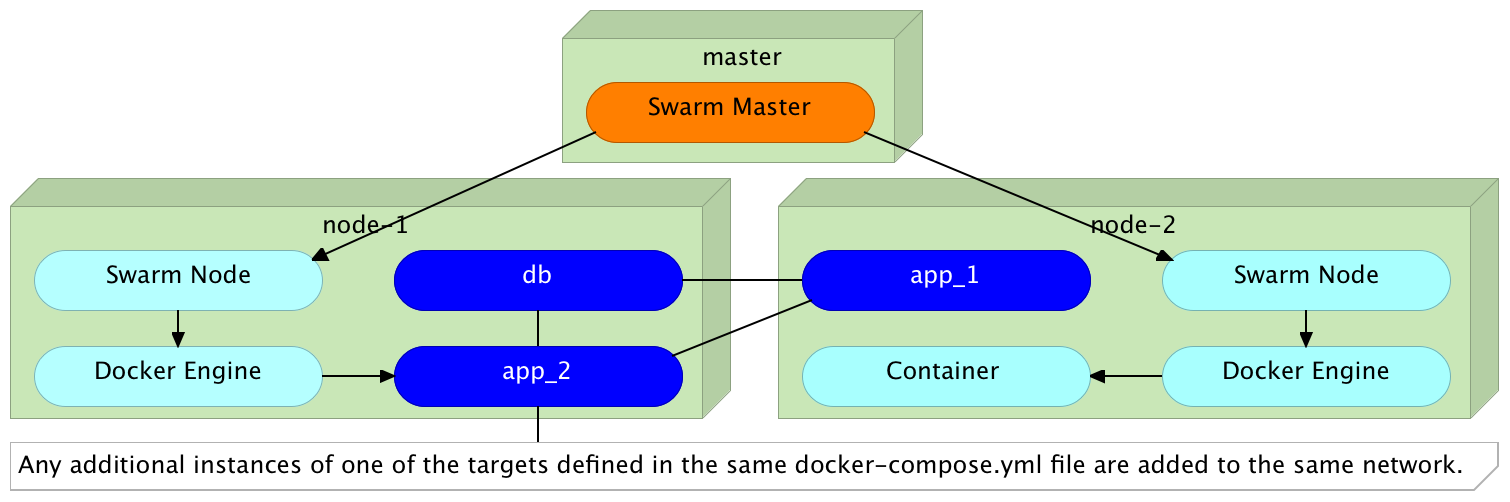
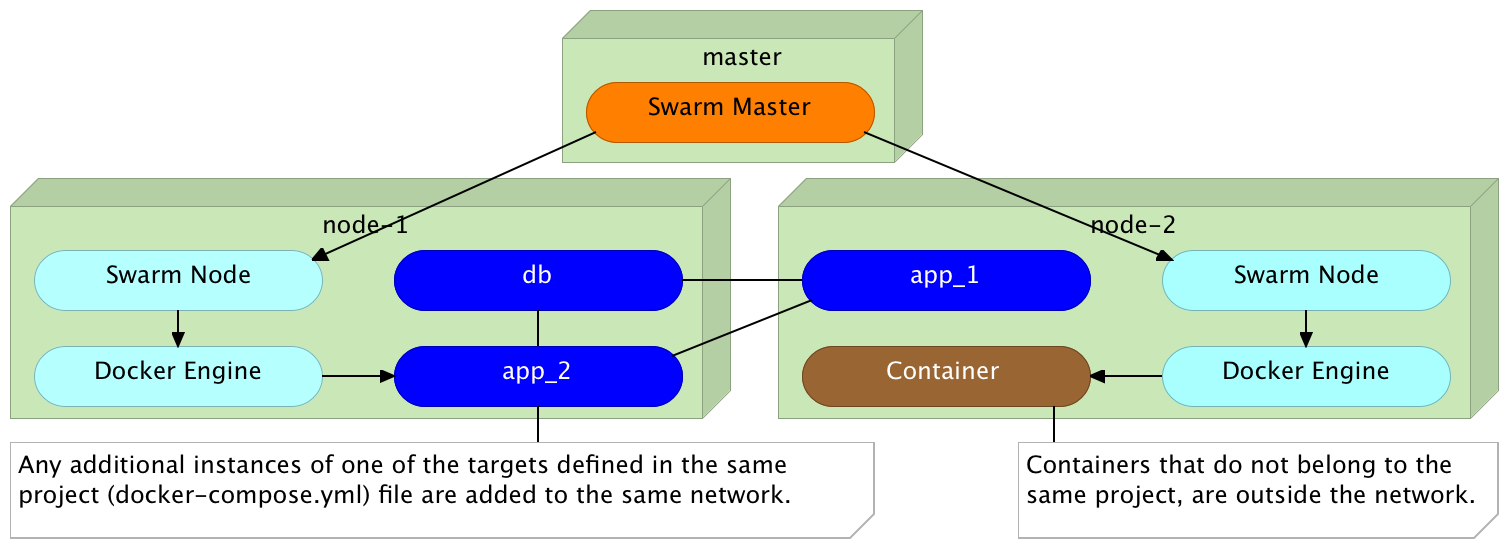
Wrote the Docker Networking and DNS article

diff --git a/articles/docker-dns.md b/articles/docker-dns.md
@@ -10,7 +10,9 @@ Let's start from the beginning. Since I don't know whether you're a Mac, Windows
 Setting Up The Cluster
 ----------------------
 
-TODO: Continue
+The only requirements for the examples that follow are [Vagrant](https://www.vagrantup.com/) and [Git](https://git-scm.com/). I choose Vagrant over [Docker Machine](https://www.docker.com/products/docker-machine) so that everyone can use the same commands no matter whether host OS is Linux, OS X, or Windows. The principles explained here are the same no matter whether your setup. Please make sure that both are installed on your machine. Everything else will be provisioned automatically.
+
+Let's get going. The commands that will create and provision the VMs are as follows.
 
 ```bash
 git clone https://github.com/vfarcic/docker-flow.git
@@ -22,81 +24,305 @@ vagrant plugin install vagrant-cachier
 vagrant up master node-1 node-2 proxy
 ```
 
+When the execution of the `vagrant up` command is finished, we'll have a commonly used Docker Swarm cluster configuration. The *proxy* node will host *Consul* that will serve as service registry. At the moment *proxy* service is missing (more on that later). The *master* server will host Swarm running in *master* mode. Finally, the two cluster nodes (*node-1* and *node-2*) will also be running Swarm but, this time, in *node* mode. The cluster node will also host *Registrator* that will make sure that all containers running in the cluster are registered in *Consul*. I won't go deeper into the explanation of the cluster setup but concentrate on Docker networking and DNS features.
+
 ![Swarm cluster setup through Vagrant](img/vagrant-sample.png)
+
+Let us enter the *proxy* VM and start exploring different networking options.
 
 ```bash
 vagrant ssh proxy
 
 cd /vagrant/articles/dns
+```
 
+The *dns* directory contains all the code we'll need throughout this article.
+
+Creating Docker Network Automatically
+-------------------------------------
+
+Let's see the networking in action. We'll run a simple service consisting of two containers. They are defined as targets `app` and `db` inside the [docker-compose-internal.yml](https://github.com/vfarcic/docker-flow/blob/master/articles/dns/docker-compose-internal.yml) file. Its content is as follows.
+
+```yml
+version: '2'
+
+services:
+  app:
+    image: vfarcic/books-ms
+    ports:
+      - 8080
+    environment:
+      - DB_HOST=books-ms-db
+    depends_on:
+      - db
+
+  db:
+    container_name: books-ms-db
+    image: mongo
+    environment:
+      - SERVICE_NAME=books-ms-db
+```
+
+This definition does not contain anything related to networking so we'll skip the explanation and run the containers.
+
+```bash
 export DOCKER_HOST=tcp://master:2375
 
-# Create network manually
+docker-compose -f docker-compose-internal.yml up -d app
+```
 
-docker network create backend
+We specified that the `DOCKER_HOST` variable should point to the Swarm master and run the Docker Compose target `app`. Since the definition of the `app` target states that it depends on `db`, the `books-ms-db` container was run as well.
 
-docker network ls
+The output of the `up` command is as follows.
 
-cat docker-compose.yml
+```
+Creating network "dns_default" with the default driver
+Creating books-ms-db
+Creating dns_app_1
+```
 
-docker-compose -f docker-compose.yml up -d db app
+Unless specified otherwise, Docker Compose always creates the default network for all containers belonging to a project. Unless specified with the `-p` argument, a project is equivalent to a directory Compose files reside (in this case *dns*). Therefore, as seen from the output, Docker Compose created a new network called `dns_default`.
 
-# Docker Compose created the network dns_default
+Let's confirm that the containers we just run are indeed inside the newly created network. We can, for example, try to ping the container *books-ms-db* from inside the container *dns_app_1*.
 
-docker exec -it dns_app_1 ping books-ms-db
+```bash
+docker exec -it dns_app_1 ping -c 1 books-ms-db
+```
 
-docker exec -it books-ms-db ping dns_app_1
+The output of the `exec` command is as follows.
+
+```
+PING books-ms-db (10.0.0.2): 56 data bytes
+64 bytes from 10.0.0.2: icmp_seq=0 ttl=64 time=0.055 ms
+--- books-ms-db ping statistics ---
+1 packets transmitted, 1 packets received, 0% packet loss
+round-trip min/avg/max/stddev = 0.055/0.055/0.055/0.000 ms
+```
+
+From it, we can see that both containrs are inside the same network and that the IP `10.0.0.2` was assigned to *books-ms-db*. Since those two containers were deployed with Swarm, they are running inside different servers. We don't even know (without listing processes or querying Consul) where is each of those containers running. The point is that, in thise case, we do not need to know the IP of the server where the container is running. As long as it belongs to the same network, it is accessible by its name.
+
+We can invert the situation and ping the container `dns_app_1` from inside the container `books-ms-db`.
+
+```bash
+docker exec -it books-ms-db ping -c 1 dns_app_1
 ```
 
 ![All containers that form the same service (defined in the same docker-compose.yml file) are inside the same network](img/network-service-1.png)
 
+Let's see what would happen if we instruct Swarm to deploy an additional instance of the *app* target.
+
 ```bash
-docker-compose -f docker-compose.yml scale app=2
+docker-compose -f docker-compose-internal.yml scale app=2
+```
 
-docker exec -it dns_app_1 ping dns_app_2
+This time we have the *app* target scaled to two instances and we repeat the ping process among all containers.
 
-docker exec -it dns_app_2 ping dns_app_1
+```bash
+docker exec -it dns_app_1 ping -c 1 dns_app_2
 
-docker exec -it dns_app_2 ping books-ms-db
+docker exec -it dns_app_2 ping -c 1 dns_app_1
 
+docker exec -it dns_app_2 ping -c 1 books-ms-db
+```
+
+As expected, all three containers can be accessed from each other. Since they belong to the same project (same Docker Compose file), Docker put all of them inside the same network and assign a different IP to each. The result is the same no matter whether all containers are created at the same time or run later on.
+
+What would happen if we run a new container that, this time, does not belong to the same project?
+
+```bash
 docker run -it --rm alpine ping books-ms-db
 ```
 
+The output of the `run` command is as follows.
+
+```
+ping: bad address 'books-ms-db'
+```
+
+Since we run a container that was not defined inside the same Docker Compose project, it was not added to the same network and, therefore, it could not access the other containers.
+
 ![Any additional instances of one of the targets defined in the same docker-compose.yml file are added to the same network.](img/network-service-2.png)
 
+Does this mean that containers can communicate with each other only if they belong to the same project?
+
+Before we try to answer that question, let's destroy the containers and the network and start over.
+
 ```bash
-docker run -it --rm --net backend alpine ping dns_app_1
-
-docker run -it --rm --net backend alpine ping dns_app_2
-
-docker run -it --rm --net backend alpine ping books-ms-db
+docker-compose -f docker-compose-internal.yml down
 ```
+
+As a side note, when Docker Compose removes the last container inside a network, it removes that network as well.
+
+Adding Containers To The External Network
+-----------------------------------------
+
+Another way to define networking is as external (when looking from Docker Compose point of view).
+
+We can use the `docker network` command to create a new network and, later on, tell Compose that some containers should belong to it.
+
+```bash
+docker network create backend
+```
+
+Since the `DOCKER_HOST` variable still points to the IP and the port of *Swarm master*, the newly created network spans all cluster servers.
+
+We can confirm that the `backend` network was indeed created by executing the command that follows.
+
+```bash
+docker network ls
+```
+
+The output of the `network` command should be similar to the one that follows.
+
+```
+NETWORK ID          NAME                DRIVER
+cd2675aa63cf        backend             overlay
+2f77d6dd68f7        node-1/bridge       bridge
+ce249d5e9344        node-1/host         host
+f65bb111c121        node-1/none         null
+59b0f8b1f82a        node-2/bridge       bridge
+021455cd81ae        node-2/host         host
+bd944b062d59        node-2/none         null
+```
+
+As you can see, besides networks created during the Swarm setup, the *backend* network is available as well. We can use it through [docker-compose.yml](https://github.com/vfarcic/docker-flow/blob/master/articles/dns/docker-compose.yml). The content of the file is as follows.
+
+```yml
+version: '2'
+
+networks:
+  be:
+    external:
+      name: backend
+
+services:
+  app:
+    image: vfarcic/books-ms${BOOKS_MS_VERSION}
+    ports:
+      - 8080
+    environment:
+      - SERVICE_NAME=books-ms
+      - DB_HOST=books-ms-db
+    networks:
+      default: {}
+      be:
+        aliases:
+          - books-ms
+    depends_on:
+      - db
+
+  db:
+    container_name: books-ms-db
+    image: mongo
+    environment:
+      - SERVICE_NAME=books-ms-db
+```
+
+As you can see, we added the `networks` sections to the Compose file we used earlier.
+
+We won't go into details of the whole definition but focus on `networks` sections. The first `networks` section (at the top) is internally called `be`. It is set to be `external`, and is referring to the network `backend`. The internal name is the reference we'll use inside services. If a network is `external`, it means that it needs to be created manually outside *Docker Compose*. We already did that by executing the `docker network create backend`. Finally, the name of the network must be the same as the name we specified through the command.
+
+The `networks` section represents the general definition of the network. By itself, it has no purpose until it is defined inside one of the services. Therefore, we have the `be` network specified inside the `app` service. We'll explore `aliases` a bit later.
+
+We'll start by bringing up two instances of the target `app`, and, with them, the `db` they depend on.
+
+```bash
+docker-compose up -d app
+
+docker-compose scale app=2
+```
+
+As before, Docker Compose created a network for all the containers defined inside the *docker-compose.yml* file. However, we specified that the *app* target should belong to the *backend* network as well. As a result, we have containers *dns_app_1*, *dns_app_2* belonging to both, and *books-ms-db* being only inside the *dns_default* network. That, in itself, does not provide anything new. All three containers can "speak" with each other with or without the *backend* network.
+
+Let's see what happens if we run a new container, but, this time, use the `--net` argument to specify that it should belong to the *backend* network.
+
+```bash
+docker run -it --rm --net backend alpine ping -c 1 dns_app_1
+
+docker run -it --rm --net backend alpine ping -c 1 books-ms-db
+```
+
+Since the *dns_app_1* belongs to the same network, ping was successful. On the other hand, the second ping failed since the `books-ms-db` container does not belong to the external network *backend*.
 
 ![All containers belonging to the same external network can access each others.](img/network-external.png)
 
+Do we want to send requests to a specific instance of the target (e.g. *dns_app_1*)?
+
+Load Balancing Requests To Multiple Instances
+---------------------------------------------
+
+Sending requests to a specific instance of the target defies the purpose of scaling. We scale because we want to improve performance and provide failover in case one of the instances stops working. Therefore, we want requests to be balanced between all instances of the target. We can do that easily with *DNS load balancing* and *aliases*.
+
+If you go back to the [docker-compose.yml](https://github.com/vfarcic/docker-flow/blob/master/articles/dns/docker-compose.yml) we used earlier, you'll notice that the *backend* network defined inside the *app* target has the *book-ms* alias. By sending a request to the alias instead a specific container name, Docker will perform *round-robin load balancing* and redirect it to one of the instances.
+
+As a way to test it, we'll send three pings to the *books-ms* alias.
+
 ```bash
-docker run -it --rm --net backend alpine ping books-ms
+docker run -it --rm --net backend alpine ping -c 1 books-ms
 
-docker run -it --rm --net backend alpine ping books-ms
+docker run -it --rm --net backend alpine ping -c 1 books-ms
 
-docker run -it --rm --net backend alpine ping books-ms
+docker run -it --rm --net backend alpine ping -c 1 books-ms
 ```
 
-Pros:
+The combined output of the commands is as follows.
 
-* Easy to setup.
-* Great for communication between containers forming the same service.
+```
+PING books-ms (10.0.1.3): 56 data bytes
 
-Cons:
+PING books-ms (10.0.1.3): 56 data bytes
 
-* Not for public facing access.
-* Does not substitute "real" proxy
-* Difficulties with "real" proxy checks
-* Extra note: while the DNS resolver in Engine 1.11 will randomize records (i.e. return them in a different order at each request), most DNS resolvers will sort the records; so a "naive" client will end up always connecting to the same backend.
+PING books-ms (10.0.1.2): 56 data bytes
+```
 
-TODO: Docker Flow
+The first two requests were sent to the instance with the IP *10.0.1.3* while the third one was sent to *10.0.1.2*. This simplifies communication between different services. The choice which instance the request should be sent can be moved outside of the service that sent the request. All that service needs to know is that the destination service is accessible through the alias *books-ms*. Docker will make sure that it reaches one of the instances of that service.
 
-Swarm Rescheduling
-==================
+![DNS load balancing through aliases](img/network-external-dns.png)
 
-TODO
+Networking Use Cases
+--------------------
+
+When working with Docker and SDN (Software Defined Networking), some patterns emerge and we can observe different use cases.
+
+Networks created automatically by Docker Compose should be used for internal communication between containers that form the same project or the same service. That is useful because those containers need to "speak" with each other. I our example, *app* target stores and retrieves data from the database running in the separate container. No one outside that network can access those containers. We can call this type *internal communication*.
+
+On the other hand, the *app* target exposes an HTTP API. We need other services to be able to invoke it. For that reason, we created the second (external) network called *backend*. Since other services are not supposed to access each others databases, they are excluded from the network. In other words, communication between different services is available only through their APIs. We can call this type *external communication*.
+
+Allowing Public Access To Services
+----------------------------------
+
+Those who paid attention will notice that we didn't mention the third case. We did not explore ways to access services from outside the cluster. After all, in most cases, we want our services to face public. We want our users to be able to use them. The reason for this omission lies in the need to use different tools for this type of access. While it is technically possible and fairly easy to accomplish this use case with Docker DNS load balancing, the solution would be sub-optimum.
+
+Proxy services like [HAProxy](http://www.haproxy.org/) and [nginx](https://www.nginx.com/) are battle tested solutions for load balancing, reverse proxy, and few other things. Large scale access to scaled services with potentially huge load might not be best served using methods we explored. On the other hand, continuous deployment promoted by containers require constant reconfiguration of those services together with service discovery that will provide necessary information about the cluster and everything running inside it. Dynamic proxy reconfiguration and service discovery are beyond the scope of this article. There are plenty of tools that will allow you to build your own solution. As one possible option you might want to explore, please read the [Docker Flow: Proxy – On-Demand HAProxy Service Discovery and Reconfiguration](https://technologyconversations.com/2016/03/21/docker-flow-proxy-on-demand-haproxy-service-discovery-and-reconfiguration/) article or jump directly to the [Docker Flow: Proxy](https://github.com/vfarcic/docker-flow-proxy) project.
+
+The Good, The Bad, And The Ugly
+-------------------------------
+
+Let us, quickly, evaluate the practices and technology we explored in this article.
+
+![DNS load balancing through aliases](img/good-the-bad-and-the-ugly)
+
+### The good (adopt now)
+
+Docker networking exists for several versions and it is stable. Operating containers inside a cluster was painful and complicated without it. Links could no span multiple containers without involving workarounds, tricks, and "witchcraft". It was the major milestone that made *Swarm* a viable and, in many cases, the best solution for running containers inside a cluster.
+
+DNS round robin is very easy to define and use. Big thumbs up to Docker for this feature. It is great when we need to allow internal communication between different containers. Without it, communication through Docker networking was truly useful only when there is a single instance of the destination service.
+
+### The bad (potentially useful but still in its infancy)
+
+While the DNS resolver in Engine 1.11 will randomize records (i.e. return them in a different order at each request), most DNS resolvers will sort the records. As the result, round-robin will not truly work as that. You saw the example when we made three pings through DNS to the destination target *app*. Even though no one else was accessing the service, the first two requests went to the first instance, while the third one went to the second (in your case the order might have been different). True round-robin would make the first request to the first instance, the second request to the second instance, and the third request to the first instance again. The problem is not in the Docker's implementation of the DSN round-robin but in DNS usage. While in many cases this deviation should not cause problems, there are, still, better solutions we can apply. On the upside, this addition is a very important one and we are yet to see the improvements next releases will bring.
+
+### The ugly (do not use it)
+
+Docker's DNS combined with aliases has many uses, but public-facing load balancing of big traffic is not one of them. Do not be tempted to replace your proxy with it. HAProxy and nginx, just to name few, are battle tested and proven to work well under almost any load. With health checks, reverse proxy, URL rewriting, and many other features, they are much more than simple round-robin load balancers. The challenge when using proxies is dynamic reconfiguration based on service discovery but that does not diminish their value nor justifies the switch to Docker's DNS. On the other hand, that does not diminish the value we got in the Docker's release 1.11. It is one more tool in our toolbelt and it is our job to know when to use one over the other. Please read the [Docker Flow: Proxy – On-Demand HAProxy Service Discovery and Reconfiguration](https://technologyconversations.com/2016/03/21/docker-flow-proxy-on-demand-haproxy-service-discovery-and-reconfiguration/) article for more information. Even if you do not choose to use *Docker Flow: Proxy*, it provides an insight to what we expect from proxies inside a cluster full with Docker containers.
+
+The DevOps 2.0 Toolkit
+======================
+
+<a href="http://www.amazon.com/dp/B01BJ4V66M" rel="attachment wp-att-3017"><img src="https://technologyconversations.files.wordpress.com/2014/04/the-devops-2-0-toolkit.png?w=188" alt="The DevOps 2.0 Toolkit" width="188" height="300" class="alignright size-medium wp-image-3017" /></a>If you liked this article, you might be interested in [The DevOps 2.0 Toolkit: Automating the Continuous Deployment Pipeline with Containerized Microservices](http://www.amazon.com/dp/B01BJ4V66M) book. Among many other subjects, it explores Docker clustering and networking in much more detail.
+
+The book is about different techniques that help us architect software in a better and more efficient way with *microservices* packed as *immutable containers*, *tested* and *deployed continuously* to servers that are *automatically provisioned* with *configuration management* tools. It's about fast, reliable and continuous deployments with *zero-downtime* and ability to *roll-back*. It's about *scaling* to any number of servers, the design of *self-healing systems* capable of recuperation from both hardware and software failures and about *centralized logging and monitoring* of the cluster.
+
+In other words, this book envelops the whole *microservices development and deployment lifecycle* using some of the latest and greatest practices and tools. We'll use *Docker, Ansible, Ubuntu, Docker Swarm and Docker Compose, Consul, etcd, Registrator, confd, Jenkins, nginx*, and so on. We'll go through many practices and, even more, tools.
+
+The book is available from Amazon ([Amazon.com](http://www.amazon.com/dp/B01BJ4V66M) and other worldwide sites) and [LeanPub](https://leanpub.com/the-devops-2-toolkit).
